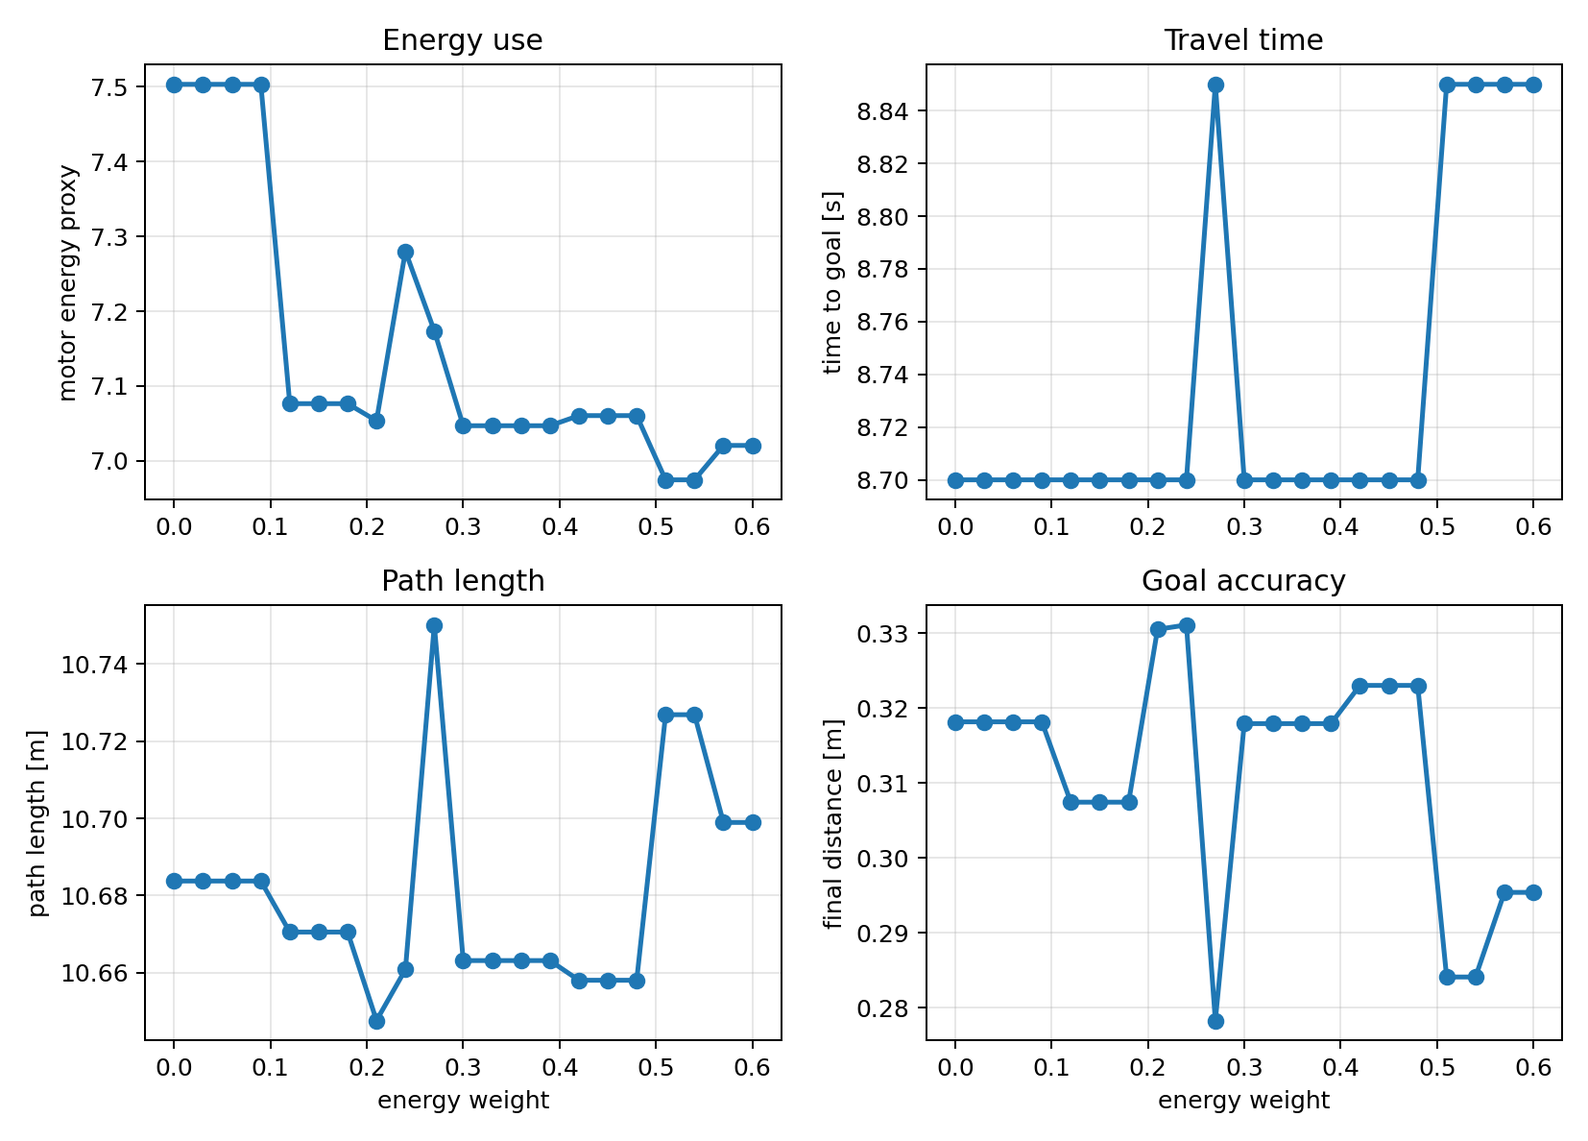
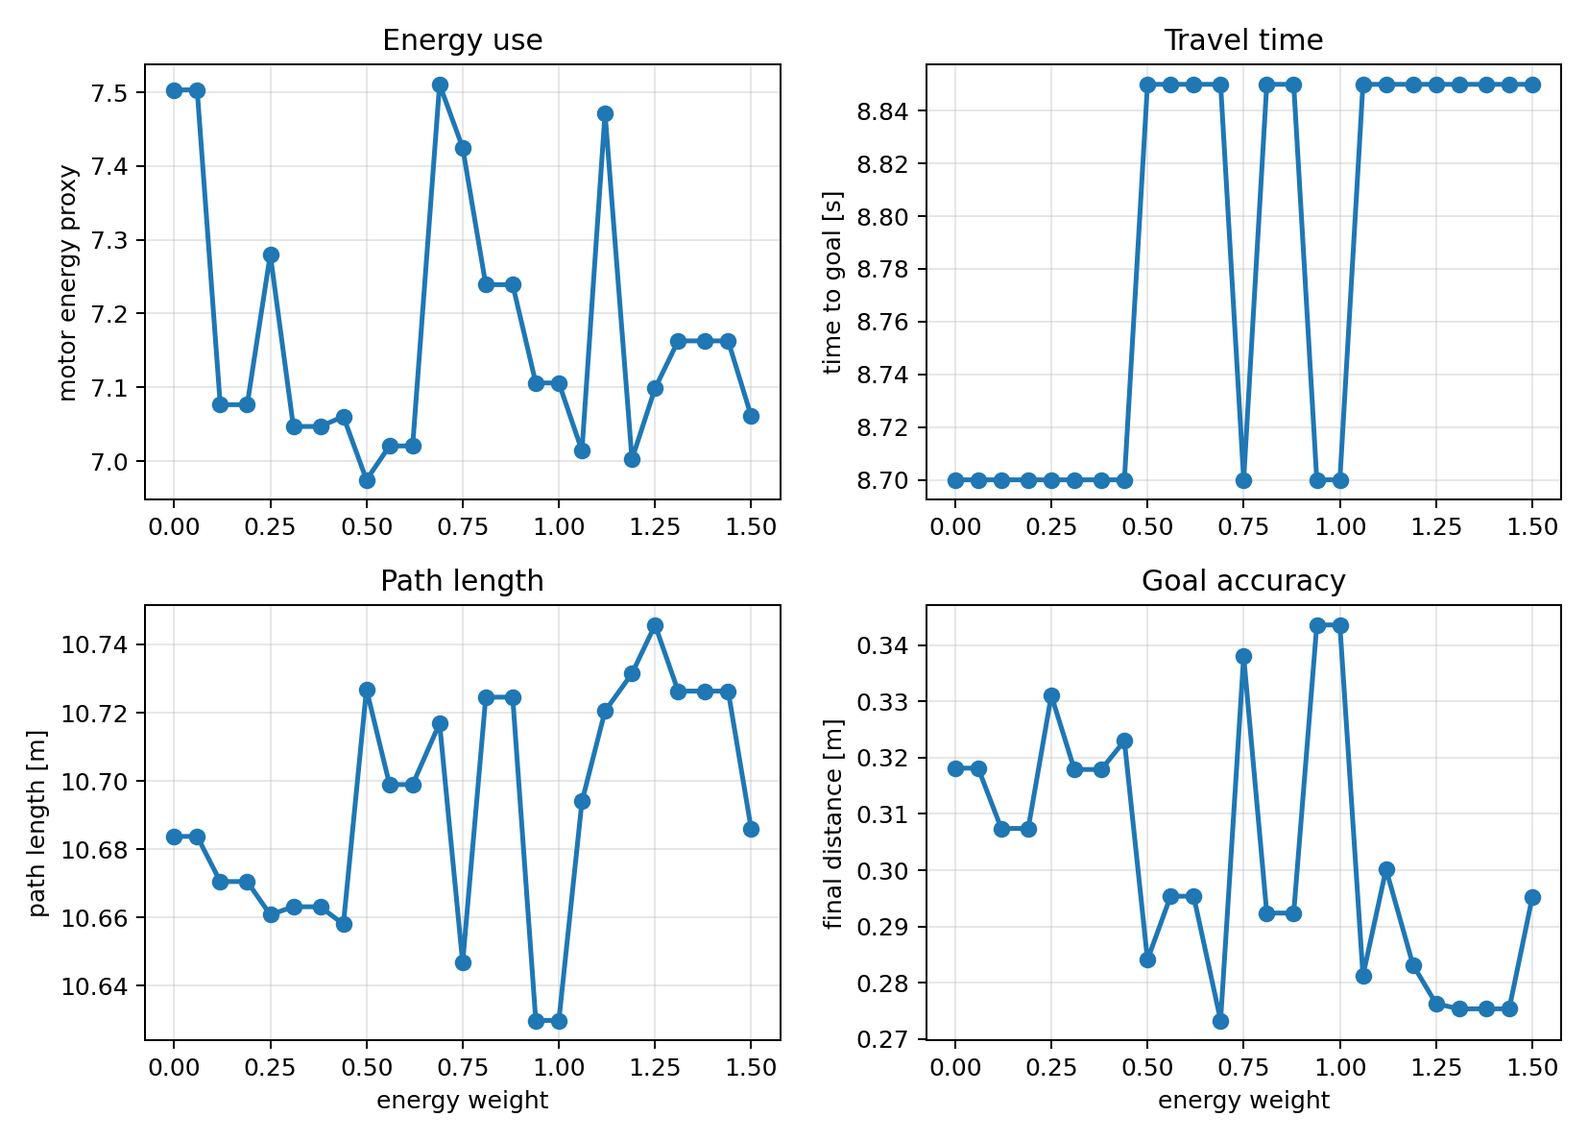
Fix Project 4 formulas and validation scenarios

diff --git a/project_4_mpc_obstacle_navigation/environment.py b/project_4_mpc_obstacle_navigation/environment.py
@@ -109,20 +109,20 @@ def scenarios() -> list[Scenario]:
         ),
         Scenario(
             "map_4",
-            "lower corridor with delayed crossing",
+            "narrow feasible corridor",
             np.array([0.0, 0.0, 0.08, 0.0, 0.0], dtype=float),
             np.array([9.0, 6.0], dtype=float),
             (
-                CircularObstacle("static_lower_mid", np.array([3.95, 1.10]), 0.56, zero),
-                CircularObstacle("static_upper_mid", np.array([5.10, 5.45]), 0.58, zero),
-                CircularObstacle("moving_delayed_mid", np.array([1.00, 2.65]), 0.47, np.array([0.24, 0.00])),
-                CircularObstacle("moving_delayed_goal", np.array([8.85, 3.75]), 0.34, np.array([-0.20, 0.02])),
+                CircularObstacle("static_lower_pin", np.array([3.55, 1.25]), 0.56, zero),
+                CircularObstacle("static_upper_pin", np.array([5.55, 4.85]), 0.58, zero),
+                CircularObstacle("moving_corridor_entry", np.array([1.10, 2.65]), 0.35, np.array([0.25, 0.00])),
+                CircularObstacle("moving_corridor_exit", np.array([8.40, 3.65]), 0.34, np.array([-0.22, 0.00])),
             ),
             base_config,
         ),
         Scenario(
             "map_5",
-            "wider two-crossing passage",
+            "wide two-crossing passage",
             np.array([0.0, 0.0, 0.08, 0.0, 0.0], dtype=float),
             np.array([9.0, 6.0], dtype=float),
             (
@@ -130,6 +130,71 @@ def scenarios() -> list[Scenario]:
                 CircularObstacle("static_high_wide", np.array([6.25, 5.25]), 0.56, zero),
                 CircularObstacle("moving_wide_entry", np.array([1.20, 2.55]), 0.31, np.array([0.23, 0.03])),
                 CircularObstacle("moving_wide_exit", np.array([8.00, 3.55]), 0.32, np.array([0.00, 0.04])),
+            ),
+            base_config,
+        ),
+        Scenario(
+            "map_6",
+            "open map with two dynamic crossings",
+            np.array([0.0, 0.0, 0.08, 0.0, 0.0], dtype=float),
+            np.array([9.0, 6.0], dtype=float),
+            (
+                CircularObstacle("static_upper_open", np.array([3.20, 5.05]), 0.45, zero),
+                CircularObstacle("static_lower_open", np.array([6.40, 1.20]), 0.45, zero),
+                CircularObstacle("moving_open_entry", np.array([1.05, 2.75]), 0.31, np.array([0.27, 0.00])),
+                CircularObstacle("moving_open_exit", np.array([8.40, 4.15]), 0.31, np.array([-0.24, 0.00])),
+            ),
+            base_config,
+        ),
+        Scenario(
+            "map_7",
+            "delayed obstacle near goal",
+            np.array([0.0, 0.0, 0.08, 0.0, 0.0], dtype=float),
+            np.array([9.0, 6.0], dtype=float),
+            (
+                CircularObstacle("static_low_early", np.array([3.95, 1.10]), 0.56, zero),
+                CircularObstacle("static_high_late", np.array([5.10, 5.45]), 0.58, zero),
+                CircularObstacle("moving_delayed_mid", np.array([1.00, 2.65]), 0.34, np.array([0.24, 0.00])),
+                CircularObstacle("moving_late_goal", np.array([8.85, 3.75]), 0.34, np.array([-0.20, 0.02])),
+            ),
+            base_config,
+        ),
+        Scenario(
+            "map_8",
+            "diagonal moving obstacle path",
+            np.array([0.0, 0.0, 0.08, 0.0, 0.0], dtype=float),
+            np.array([9.0, 6.0], dtype=float),
+            (
+                CircularObstacle("static_upper_diagonal", np.array([4.00, 4.70]), 0.52, zero),
+                CircularObstacle("static_lower_diagonal", np.array([5.90, 1.60]), 0.50, zero),
+                CircularObstacle("moving_diagonal_rise", np.array([1.20, 1.80]), 0.31, np.array([0.23, 0.08])),
+                CircularObstacle("moving_diagonal_fall", np.array([8.80, 5.80]), 0.32, np.array([-0.08, -0.02])),
+            ),
+            base_config,
+        ),
+        Scenario(
+            "map_9",
+            "offset bottleneck with vertical exit",
+            np.array([0.0, 0.0, 0.08, 0.0, 0.0], dtype=float),
+            np.array([9.0, 6.0], dtype=float),
+            (
+                CircularObstacle("static_upper_left_offset", np.array([2.80, 4.55]), 0.48, zero),
+                CircularObstacle("static_lower_right_offset", np.array([6.40, 1.35]), 0.50, zero),
+                CircularObstacle("moving_offset_cross", np.array([1.15, 2.55]), 0.32, np.array([0.26, 0.00])),
+                CircularObstacle("moving_vertical_exit", np.array([7.45, 3.10]), 0.31, np.array([0.00, 0.08])),
+            ),
+            base_config,
+        ),
+        Scenario(
+            "map_10",
+            "late crossing final approach",
+            np.array([0.0, 0.0, 0.08, 0.0, 0.0], dtype=float),
+            np.array([9.0, 6.0], dtype=float),
+            (
+                CircularObstacle("static_high_start", np.array([2.80, 4.30]), 0.47, zero),
+                CircularObstacle("static_low_goal", np.array([6.50, 1.10]), 0.47, zero),
+                CircularObstacle("moving_mid_fast", np.array([1.00, 2.50]), 0.31, np.array([0.26, 0.00])),
+                CircularObstacle("moving_goal_drop", np.array([7.00, 6.10]), 0.32, np.array([0.00, -0.09])),
             ),
             base_config,
         ),

diff --git a/project_4_mpc_obstacle_navigation/main.py b/project_4_mpc_obstacle_navigation/main.py
@@ -66,7 +66,7 @@ def print_terminal_decrease_check(scenario) -> None:
 
 
 def run_energy_study(scenario) -> list[dict]:
-    weights = np.round(np.linspace(0.0, 0.60, 21), 2)
+    weights = np.round(np.linspace(0.0, 1.50, 25), 2)
     records = []
     for weight in weights:
         result = run_mpc(scenario, weights=MPCWeights(energy=weight))

diff --git a/project_4_mpc_obstacle_navigation/README.md b/project_4_mpc_obstacle_navigation/README.md
@@ -14,7 +14,7 @@
 
 **Class of methods:** torque-based Model Predictive Control. At each time step, the controller predicts future robot states over a finite horizon, evaluates predicted obstacle positions, rejects infeasible trajectories that violate safety constraints, and selects a torque sequence minimizing goal-tracking error, path length, control effort, smoothness, and energy-related cost. Only the first torque input is applied, and the optimization is repeated at the next step.
 
-**Comparison:** the MPC controller is compared with an Artificial Potential Field baseline. APF uses attractive forces toward the goal and repulsive forces from obstacles. Unlike MPC, APF is reactive and does not optimize a future torque sequence over a horizon. The comparison evaluates goal reaching, obstacle clearance, near-obstacle events, path length, path efficiency, smoothness, heading aggressiveness, control effort, and boundary violations.
+**Comparison:** the MPC controller is compared with an Artificial Potential Field baseline. APF uses attractive forces toward the goal and repulsive forces from obstacles. Unlike MPC, APF is reactive and does not optimize a future torque sequence over a horizon. The comparison evaluates goal reaching, obstacle clearance, path length, path efficiency, smoothness, heading aggressiveness, control effort, and boundary violations.
 
 ---
 
@@ -222,12 +222,14 @@ where $U_{\mathrm{rep},j}$ is the repulsive potential from obstacle $j$, $k_{\ma
 4. Reject infeasible MPC candidates that violate safety, input, velocity, or terminal constraints.
 5. Select the feasible torque sequence with the lowest cost and apply only its first input.
 6. Run APF on the same scenario using the same robot model limits.
-7. Log goal distance, clearance, safety margin, path length, smoothness, effort, time, collisions, and boundary violations.
-8. Repeat this procedure for five obstacle maps and generate GIFs and plots.
+7. Log goal distance, clearance, path length, smoothness, effort, time, collisions, and boundary violations.
+8. Repeat this procedure for ten obstacle maps and generate GIFs and plots.
 
 ---
 
 ## 7. Simulation Setup and Metrics
+
+**Table 1.** Simulation parameters used for all validation maps.
 
 | Quantity | Value |
 |---|---:|
@@ -301,10 +303,10 @@ where $m_{\mathrm{safe},k}$ is the minimum obstacle clearance at step $k$, and $
 The energy study uses the grid
 
 ```math
-w_{\mathrm{energy}}\in\{0.00,0.03,0.06,\ldots,0.60\} \qquad\text{(31)}
+w_{\mathrm{energy}}\in\mathrm{round}_2(\mathrm{linspace}(0.00,1.50,25)) \qquad\text{(31)}
 ```
 
-where $w_{\mathrm{energy}}$ is the weight of the motor-energy term in the MPC cost. The implementation evaluates 21 values.
+where $w_{\mathrm{energy}}$ is the weight of the motor-energy term in the MPC cost, $\mathrm{linspace}(0.00,1.50,25)$ is a uniform grid of 25 values, and $\mathrm{round}_2$ means rounding each value to two decimal places in the implementation.
 
 The motor energy proxy is
 
@@ -342,7 +344,9 @@ The representative map is a dynamic timing problem: moving obstacles cross the n
 
 ---
 
-## 9. Robustness Validation on Five Maps
+## 9. Robustness Validation on Ten Maps
+
+Ten maps are used to check that the comparison is not tied to one obstacle layout. Map 1 and map 3 are preserved from the previous validation set, while the other maps cover staggered corridors, narrow passages, delayed moving obstacles, diagonal motion, offset bottlenecks, open crossings, and final-approach interactions. All maps are checked for obstacle-obstacle separation before simulation.
 
 ![Map 1 comparison](results/map_1_comparison.gif)
 
@@ -350,7 +354,7 @@ The representative map is a dynamic timing problem: moving obstacles cross the n
 
 ![Map 2 comparison](results/map_2_comparison.gif)
 
-**Map 2.** Staggered corridor with diagonal and vertical obstacle crossings. This map is intentionally different from map 1: the static obstacles are placed on opposite sides of the diagonal route and the moving obstacles use non-horizontal motion.
+**Map 2.** Staggered corridor with diagonal and vertical crossings.
 
 ![Map 3 comparison](results/map_3_comparison.gif)
 
@@ -358,36 +362,71 @@ The representative map is a dynamic timing problem: moving obstacles cross the n
 
 ![Map 4 comparison](results/map_4_comparison.gif)
 
-**Map 4.** Lower corridor with delayed crossing obstacles. The timing makes APF pass closer to the moving obstacle, while MPC preserves a larger clearance through prediction.
+**Map 4.** Narrow feasible corridor with two crossing moving obstacles.
 
 ![Map 5 comparison](results/map_5_comparison.gif)
 
-**Map 5.** Wider passage with two separated moving obstacle interactions.
+**Map 5.** Wide two-crossing passage with separated static gates.
 
-| Map | Method | Reached goal | Final dist. | Time | Min clearance | Avg margin | Near events | Path length | Efficiency | Smoothness | Effort | Boundary violations | Collision |
-|---|---|---:|---:|---:|---:|---:|---:|---:|---:|---:|---:|---:|---:|
-| 1 | MPC | True | 0.307 | 8.70 | 0.338 | 1.066 | 6 | 10.671 | 1.014 | 0.595 | 7.076 | 0 | False |
-| 1 | APF | True | 0.337 | 13.95 | 0.204 | 1.013 | 30 | 11.387 | 0.950 | 2.805 | 32.352 | 0 | False |
-| 2 | MPC | True | 0.297 | 8.85 | 0.778 | 1.318 | 0 | 10.853 | 0.997 | 0.556 | 7.007 | 0 | False |
-| 2 | APF | True | 0.346 | 11.25 | 0.590 | 1.124 | 0 | 11.112 | 0.973 | 1.046 | 18.997 | 0 | False |
-| 3 | MPC | True | 0.339 | 8.55 | 0.546 | 0.992 | 0 | 10.610 | 1.019 | 0.495 | 7.258 | 0 | False |
-| 3 | APF | True | 0.343 | 12.00 | 0.372 | 0.867 | 3 | 11.357 | 0.952 | 1.803 | 26.894 | 0 | False |
-| 4 | MPC | True | 0.294 | 8.85 | 0.589 | 1.132 | 0 | 10.777 | 1.004 | 0.641 | 7.512 | 0 | False |
-| 4 | APF | True | 0.346 | 11.40 | 0.445 | 1.118 | 1 | 11.110 | 0.974 | 1.310 | 21.844 | 0 | False |
-| 5 | MPC | True | 0.340 | 8.55 | 0.289 | 1.013 | 6 | 10.627 | 1.018 | 0.554 | 7.417 | 0 | False |
-| 5 | APF | True | 0.339 | 13.50 | 0.330 | 0.790 | 20 | 11.392 | 0.949 | 2.732 | 33.150 | 0 | False |
+![Map 6 comparison](results/map_6_comparison.gif)
 
-| Metric | MPC average | APF average | MPC advantage |
-|---|---:|---:|---:|
-| Time to goal | 8.700 s | 12.420 s | 30.0% lower |
-| Average safety margin | 1.104 m | 0.982 m | 12.4% higher |
-| Near-obstacle events | 2.400 | 10.800 | 77.8% lower |
-| Path length | 10.708 m | 11.272 m | 5.0% lower |
-| Motion smoothness | 0.568 m | 1.939 m | 70.7% lower |
-| Control effort | 7.254 | 26.647 | 72.8% lower |
-| Heading aggressiveness | 3.802 | 28.396 | 86.6% lower |
+**Map 6.** Open map with two dynamic crossings and a stricter feasibility episode for MPC.
 
-Across the five maps, both methods reach the goal with no collisions and no boundary violations. MPC is consistently smoother and lower effort. APF remains a valid baseline, but its local repulsive field causes sharper turns, more near-obstacle events, and higher cumulative effort. Map 2 confirms that the result is not tied to a single horizontal-crossing layout, while map 4 specifically highlights the value of predicting a delayed moving obstacle before it reaches the corridor.
+![Map 7 comparison](results/map_7_comparison.gif)
+
+**Map 7.** Delayed moving obstacle near the goal approach.
+
+![Map 8 comparison](results/map_8_comparison.gif)
+
+**Map 8.** Diagonal moving-obstacle path with a longer planned detour.
+
+![Map 9 comparison](results/map_9_comparison.gif)
+
+**Map 9.** Offset bottleneck with a vertical exit obstacle.
+
+![Map 10 comparison](results/map_10_comparison.gif)
+
+**Map 10.** Late crossing on the final approach to the goal.
+
+All runs reached the goal with zero collisions and zero boundary violations. These omitted status columns are therefore summarized in text rather than repeated in the per-map table.
+
+**Table 2.** Per-map MPC and APF comparison across the ten validation maps.
+
+| Map | Method | Time to goal | Min clearance | Path length | Path efficiency | Control effort | Motion smoothness | Heading aggressiveness |
+|---|---|---:|---:|---:|---:|---:|---:|---:|
+| 1 | MPC | 8.70 | 0.338 | 10.671 | 1.014 | 7.076 | 0.595 | 3.875 |
+| 1 | APF | 13.95 | 0.204 | 11.387 | 0.950 | 32.352 | 2.805 | 37.215 |
+| 2 | MPC | 8.85 | 0.778 | 10.853 | 0.997 | 7.007 | 0.556 | 3.263 |
+| 2 | APF | 11.25 | 0.590 | 11.112 | 0.973 | 18.997 | 1.046 | 15.209 |
+| 3 | MPC | 8.55 | 0.546 | 10.610 | 1.019 | 7.258 | 0.495 | 3.429 |
+| 3 | APF | 12.00 | 0.372 | 11.357 | 0.952 | 26.894 | 1.803 | 28.296 |
+| 4 | MPC | 8.70 | 0.259 | 10.641 | 1.017 | 7.136 | 0.580 | 3.842 |
+| 4 | APF | 16.65 | 0.249 | 13.567 | 0.797 | 42.088 | 3.701 | 40.321 |
+| 5 | MPC | 8.55 | 0.289 | 10.627 | 1.018 | 7.417 | 0.554 | 3.985 |
+| 5 | APF | 13.50 | 0.330 | 11.392 | 0.949 | 33.150 | 2.732 | 38.409 |
+| 6 | MPC | 19.50 | 0.278 | 10.597 | 1.021 | 7.510 | 0.483 | 3.638 |
+| 6 | APF | 13.20 | 0.326 | 12.282 | 0.881 | 25.393 | 1.627 | 18.723 |
+| 7 | MPC | 8.85 | 0.589 | 10.761 | 1.005 | 7.163 | 0.628 | 4.207 |
+| 7 | APF | 11.40 | 0.488 | 11.071 | 0.977 | 20.903 | 1.252 | 22.138 |
+| 8 | MPC | 14.55 | 0.706 | 12.192 | 0.887 | 9.835 | 1.082 | 8.508 |
+| 8 | APF | 13.65 | 0.477 | 12.224 | 0.885 | 29.301 | 1.796 | 28.926 |
+| 9 | MPC | 9.15 | 0.969 | 10.851 | 0.997 | 6.858 | 0.593 | 3.889 |
+| 9 | APF | 11.10 | 0.725 | 10.920 | 0.990 | 16.625 | 0.864 | 12.215 |
+| 10 | MPC | 9.15 | 1.030 | 11.146 | 0.970 | 7.403 | 0.617 | 3.706 |
+| 10 | APF | 11.10 | 0.605 | 10.990 | 0.984 | 17.776 | 0.883 | 14.247 |
+
+**Table 3.** Average performance across ten validation maps.
+
+| Method | Mean time to goal | Mean min clearance | Mean path length | Mean path efficiency | Mean control effort | Mean motion smoothness | Mean heading aggressiveness |
+|---|---:|---:|---:|---:|---:|---:|---:|
+| MPC | 10.455 | 0.578 | 10.895 | 0.995 | 7.466 | 0.618 | 4.234 |
+| APF | 12.780 | 0.437 | 11.630 | 0.934 | 26.348 | 1.851 | 25.570 |
+
+Both controllers solve all ten maps. MPC gives the stronger planned-behavior profile: higher average clearance, shorter average path length, better path efficiency, much lower control effort, lower motion smoothness cost, and much lower heading aggressiveness. APF remains a valid reactive baseline and is faster on maps 6 and 8, but those faster runs come with larger path curvature or higher effort. The MPC trade-off is computational cost, especially in map 6 where the hard feasibility checks trigger emergency braking while still preserving collision-free behavior.
+
+### MPC guarantees and limitations
+
+The implemented MPC should not be interpreted as a proof of global asymptotic stability for all possible dynamic-obstacle configurations. Because the safe set changes with time and the wheel torques are bounded, there may exist configurations for which no feasible collision-free trajectory exists. Therefore, the appropriate guarantee is conditional: if the prediction model is accurate over the horizon and the constrained MPC problem remains feasible at each step, the controller preserves recursive feasibility by replanning from feasible predicted trajectories and keeps the robot inside the imposed safety constraints. In the terminal phase, when obstacle avoidance no longer conflicts with goal tracking, the terminal cost and goal-tracking terms provide practical convergence to the target. The 10-map validation is therefore used as numerical evidence of practical safety and convergence, not as an unconditional proof for all environments.
 
 ---
 
@@ -395,33 +434,19 @@ Across the five maps, both methods reach the goal with no collisions and no boun
 
 ![Energy weight study](results/energy_weight_study.png)
 
-**Figure 7.** Energy penalty sweep on map 1 using 21 penalty weights from 0.00 to 0.60.
+**Figure 7.** Energy penalty sweep on map 1 using 25 penalty weights from 0.00 to 1.50.
 
-| Energy weight | Final dist. | Time | Path length | Motor energy | Effort | Smoothness | Avg margin |
+**Table 4.** Representative points from the energy-penalty sweep on map 1.
+
+| Energy weight | Goal error | Time | Path length | Motor energy | Effort | Smoothness | Mean margin |
 |---:|---:|---:|---:|---:|---:|---:|---:|
 | 0.00 | 0.318 | 8.70 | 10.684 | 7.503 | 7.503 | 0.601 | 1.068 |
-| 0.03 | 0.318 | 8.70 | 10.684 | 7.503 | 7.503 | 0.601 | 1.068 |
-| 0.06 | 0.318 | 8.70 | 10.684 | 7.503 | 7.503 | 0.601 | 1.068 |
-| 0.09 | 0.318 | 8.70 | 10.684 | 7.503 | 7.503 | 0.601 | 1.068 |
-| 0.12 | 0.307 | 8.70 | 10.671 | 7.076 | 7.076 | 0.595 | 1.066 |
-| 0.15 | 0.307 | 8.70 | 10.671 | 7.076 | 7.076 | 0.595 | 1.066 |
-| 0.18 | 0.307 | 8.70 | 10.671 | 7.076 | 7.076 | 0.595 | 1.066 |
-| 0.21 | 0.330 | 8.70 | 10.648 | 7.054 | 7.054 | 0.601 | 1.065 |
-| 0.24 | 0.331 | 8.70 | 10.661 | 7.280 | 7.280 | 0.600 | 1.068 |
-| 0.27 | 0.278 | 8.85 | 10.750 | 7.174 | 7.174 | 0.648 | 1.093 |
-| 0.30 | 0.318 | 8.70 | 10.663 | 7.047 | 7.047 | 0.592 | 1.067 |
-| 0.33 | 0.318 | 8.70 | 10.663 | 7.047 | 7.047 | 0.592 | 1.067 |
-| 0.36 | 0.318 | 8.70 | 10.663 | 7.047 | 7.047 | 0.592 | 1.067 |
-| 0.39 | 0.318 | 8.70 | 10.663 | 7.047 | 7.047 | 0.592 | 1.067 |
-| 0.42 | 0.323 | 8.70 | 10.658 | 7.060 | 7.060 | 0.595 | 1.067 |
-| 0.45 | 0.323 | 8.70 | 10.658 | 7.060 | 7.060 | 0.595 | 1.067 |
-| 0.48 | 0.323 | 8.70 | 10.658 | 7.060 | 7.060 | 0.595 | 1.067 |
-| 0.51 | 0.284 | 8.85 | 10.727 | 6.975 | 6.975 | 0.628 | 1.091 |
-| 0.54 | 0.284 | 8.85 | 10.727 | 6.975 | 6.975 | 0.628 | 1.091 |
-| 0.57 | 0.295 | 8.85 | 10.699 | 7.021 | 7.021 | 0.619 | 1.088 |
-| 0.60 | 0.295 | 8.85 | 10.699 | 7.021 | 7.021 | 0.619 | 1.088 |
+| 0.38 | 0.318 | 8.70 | 10.663 | 7.047 | 7.047 | 0.592 | 1.067 |
+| 0.75 | 0.338 | 8.70 | 10.647 | 7.425 | 7.425 | 0.605 | 1.065 |
+| 1.12 | 0.300 | 8.85 | 10.721 | 7.472 | 7.472 | 0.616 | 1.091 |
+| 1.50 | 0.295 | 8.85 | 10.686 | 7.061 | 7.061 | 0.591 | 1.084 |
 
-Increasing the energy penalty generally reduces aggressive torque usage. The trend is not perfectly monotonic because the optimizer is sampling-based and feasible candidates can change discretely, but the higher-weight region produces lower motor-energy values than the zero-weight case. Very large weights slightly increase travel time or path length because the controller becomes more conservative. The selected default value keeps the path fast and smooth while still reducing motor effort.
+The wider coefficient range shows the practical trade-off more clearly. Moderate energy weights reduce the motor-energy proxy relative to the zero-weight case without changing the time to goal. Very high weights remain feasible in this scenario, but they can slightly increase travel time because the controller avoids aggressive torque usage. The trend is not perfectly monotonic because the optimizer is sampling-based and feasible candidates can change discretely from one weight to the next.
 
 ---
 
@@ -442,9 +467,11 @@ project_4_mpc_obstacle_navigation/
 └── results/
 ```
 
+**Table 5.** Source files and their roles.
+
 | File | Purpose |
 |---|---|
-| `environment.py` | five scenarios, robot parameters, obstacles, and validation |
+| `environment.py` | ten scenarios, robot parameters, obstacles, and validation |
 | `robot_model.py` | differential-drive dynamics and rollout functions |
 | `mpc_controller.py` | constrained sampling MPC with torque inputs |
 | `potential_field_controller.py` | APF baseline |
@@ -469,7 +496,7 @@ cd project_4_mpc_obstacle_navigation
 python main.py
 ```
 
-The command regenerates five comparison GIFs, representative plots, and the energy-weight study in `results/`.
+The command regenerates ten comparison GIFs, representative plots, and the energy-weight study in `results/`.
 
 ---
 
@@ -477,7 +504,7 @@ The command regenerates five comparison GIFs, representative plots, and the ener
 
 This project implements a torque-based Model Predictive Controller for a differential-drive robot navigating among static and moving circular obstacles. The controller predicts future robot motion and future obstacle positions, rejects unsafe candidate trajectories, and optimizes wheel torques for goal tracking, smoothness, path efficiency, and motor-energy use.
 
-The five-map validation shows that the MPC controller reaches the goal in all tested scenarios while satisfying map boundaries and avoiding collisions. APF also reaches the goal in all scenarios, which makes the comparison fair, but MPC provides a better safety-efficiency trade-off: fewer near-obstacle events, lower effort, smoother motion, and shorter travel time on average.
+The ten-map validation shows that the MPC controller reaches the goal in all tested scenarios while satisfying map boundaries and avoiding collisions. APF also reaches the goal in all scenarios, which makes the comparison fair, but MPC provides a better safety-efficiency trade-off: higher average clearance, lower effort, smoother motion, and lower heading aggressiveness.
 
 The main limitation is computational cost. The sampling-based MPC is much slower than APF, and the guarantees are practical and scenario-tested rather than global. Future work could use a deterministic constrained optimizer, add uncertainty in obstacle prediction, and test denser multi-agent environments.
 
@@ -486,8 +513,6 @@ The main limitation is computational cost. The sampling-based MPC is much slower
 ## 14. References
 
 [1] Huang, J., Liu, Z., Zeng, J., Chi, X., & Su, H. (2023). Obstacle Avoidance for Unicycle-Modelled Mobile Robots with Time-varying Control Barrier Functions. arXiv:2307.08227.
-
-[2] Advanced Control Methods course lecture notes. Model Predictive Control, 2026.
 
 ---
 
